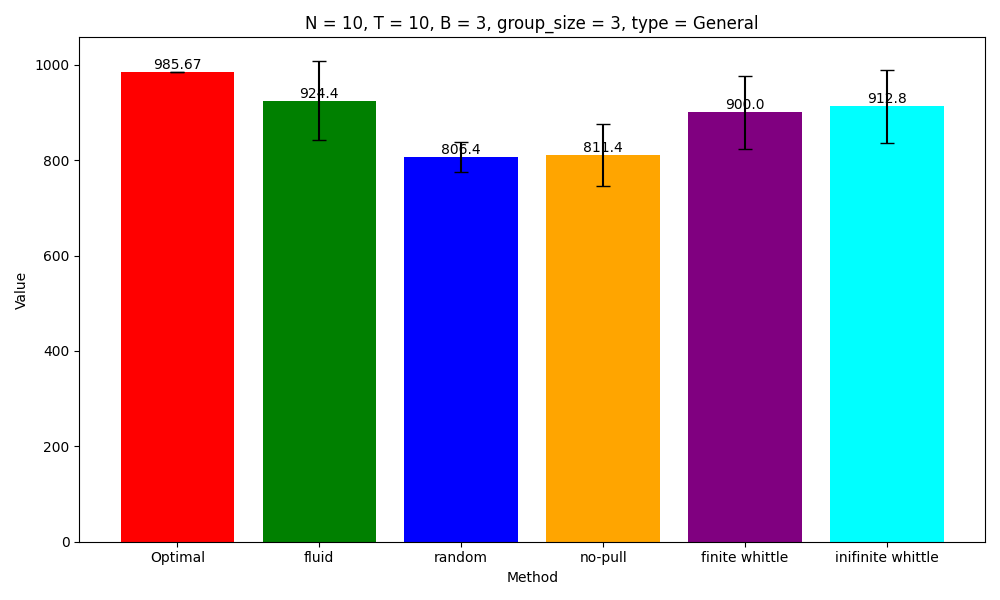
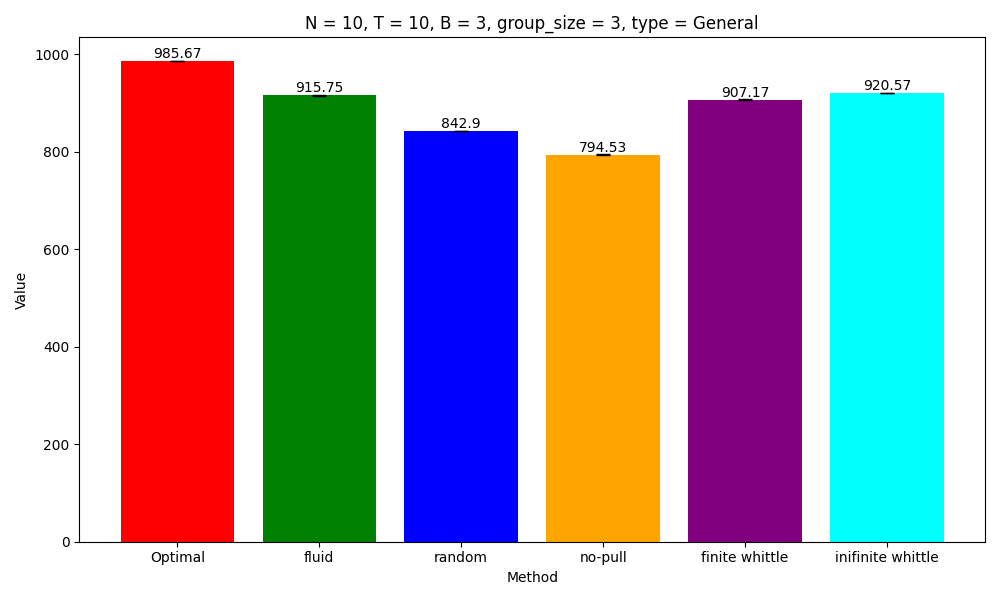
100000 MC Simulations

diff --git a/New_Experiment/methods.py b/New_Experiment/methods.py
@@ -105,7 +105,7 @@ def fluid_policy(N, T, S, S_prime, A, K, group_member_num, P, r, num_simulations
                     current_state = arm_states[type][mem]
                     mu_1 = optimal_mu_4D[type, current_state, 1, t]
                     mu_0 = optimal_mu_4D[type, current_state, 0, t]
-                    index_value = mu_1 / (mu_1 + mu_0) if (mu_1 + mu_0) > 0 else 0
+                    index_value = (10-current_state) * mu_1 / (mu_1 + mu_0) if (mu_1 + mu_0) > 0 else -10000
                     current_indices.append((type, mem, current_state, index_value))
 
             current_indices.sort(key=lambda x: x[3], reverse=True)

diff --git a/New_Experiment/run_experiment.py b/New_Experiment/run_experiment.py
@@ -71,5 +71,5 @@ K = 3
 S_prime = S * 2
 A = 2
 T = 10
-num_simulations = 5
+num_simulations = 100000
 comparison(S, N, group_member_num, K, S_prime, A, T, num_simulations, 'General')
